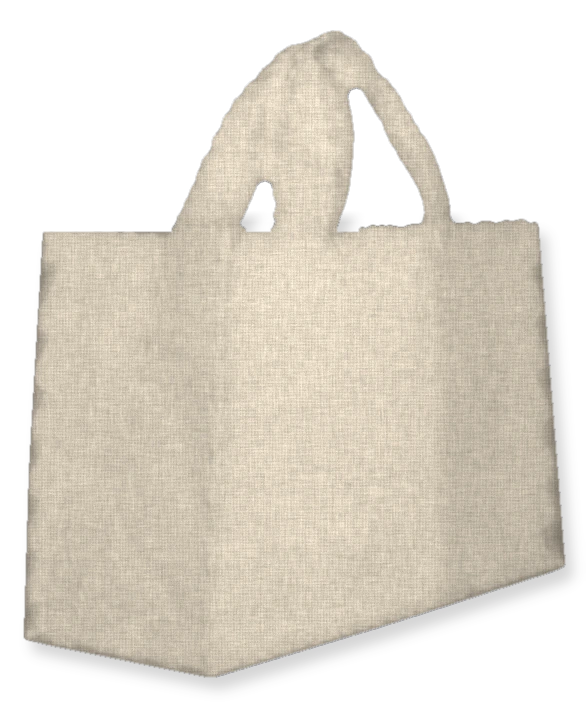
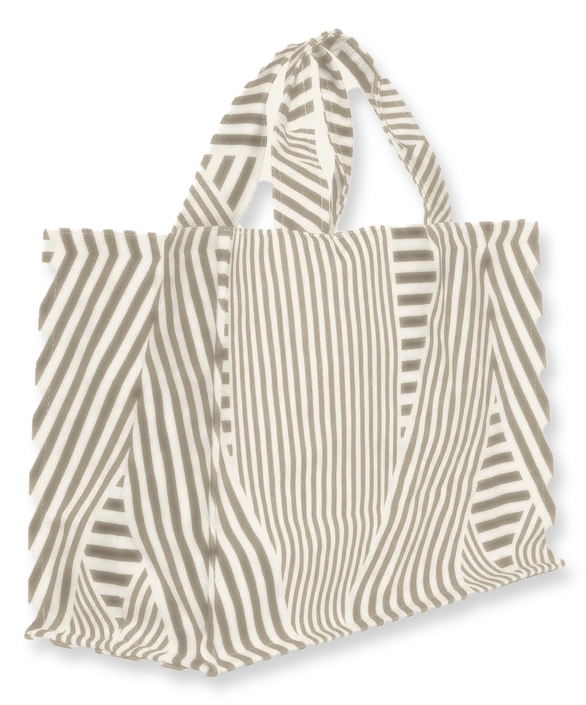
Standing Canvas Tote: original stripe pattern in ecru and greige. Requested by Lala.
Claude-Session: https://claude.ai/code/session_01JY2qApSMh3EdeyD2yLzbwL

diff --git a/lookbook-price-list/index.html b/lookbook-price-list/index.html
@@ -412,7 +412,7 @@ video::-webkit-media-controls,video::-webkit-media-controls-start-playback-butto
     <div class="textcard tote-mesh"><h3>Cotton Mesh Bag</h3><p>In the photo · light cotton mesh, 1-colour logo print</p><div class="price"><div class="tiers"><div><span>MOQ–499 pcs</span><b>€8.90</b></div><div><span>500–999 pcs</span><b>€7.90</b></div><div><span>1,000+ pcs</span><b>€6.90</b></div></div><small>per pc · excl. VAT · logo incl. · MOQ 200</small></div></div>
     <div class="grid g2 totes">
       <div class="card"><img class="cut" src="/uploads/lookbook/tote_terry.webp" alt="Blue terry tote bag" loading="lazy"><h3>Terry Tote</h3><p>40 × 38 × 11 cm, also small</p><div class="price"><div class="tiers"><div><span>MOQ–499 pcs</span><b>€22.50 – €25.50</b></div><div><span>500–999 pcs</span><b>€19.90 – €22.50</b></div><div><span>1,000+ pcs</span><b>€16.50 – €18.50</b></div></div><small>per pc · excl. VAT · excl. logo · MOQ 60</small></div></div>
-      <div class="card"><img class="cut" src="/uploads/lookbook/tote_canvas.webp?v=5" alt="Ecru-greige standing canvas tote" loading="lazy"><h3>Standing Canvas Tote</h3><p>49 × 34 × 23 cm</p><div class="price"><div class="tiers"><div><span>MOQ–499 pcs</span><b>€52.50</b></div><div><span>500–999 pcs</span><b>€47.90</b></div><div><span>1,000+ pcs</span><b>€42.50</b></div></div><small>per pc · excl. VAT · excl. logo · MOQ 200</small></div></div>
+      <div class="card"><img class="cut" src="/uploads/lookbook/tote_canvas.webp?v=6" alt="Ecru and greige striped standing canvas tote" loading="lazy"><h3>Standing Canvas Tote</h3><p>49 × 34 × 23 cm</p><div class="price"><div class="tiers"><div><span>MOQ–499 pcs</span><b>€52.50</b></div><div><span>500–999 pcs</span><b>€47.90</b></div><div><span>1,000+ pcs</span><b>€42.50</b></div></div><small>per pc · excl. VAT · excl. logo · MOQ 200</small></div></div>
     </div>
   </div>
 </section>

diff --git a/lookbook/index.html b/lookbook/index.html
@@ -399,7 +399,7 @@ video::-webkit-media-controls,video::-webkit-media-controls-start-playback-butto
     <div class="textcard tote-mesh"><h3>Cotton Mesh Bag</h3><p>In the photo · light cotton mesh, 1-colour logo print</p></div>
     <div class="grid g2 totes">
       <div class="card"><img class="cut" src="/uploads/lookbook/tote_terry.webp" alt="Blue terry tote bag" loading="lazy"><h3>Terry Tote</h3><p>40 × 38 × 11 cm, also small</p></div>
-      <div class="card"><img class="cut" src="/uploads/lookbook/tote_canvas.webp?v=5" alt="Ecru-greige standing canvas tote" loading="lazy"><h3>Standing Canvas Tote</h3><p>49 × 34 × 23 cm</p></div>
+      <div class="card"><img class="cut" src="/uploads/lookbook/tote_canvas.webp?v=6" alt="Ecru and greige striped standing canvas tote" loading="lazy"><h3>Standing Canvas Tote</h3><p>49 × 34 × 23 cm</p></div>
     </div>
   </div>
 </section>
